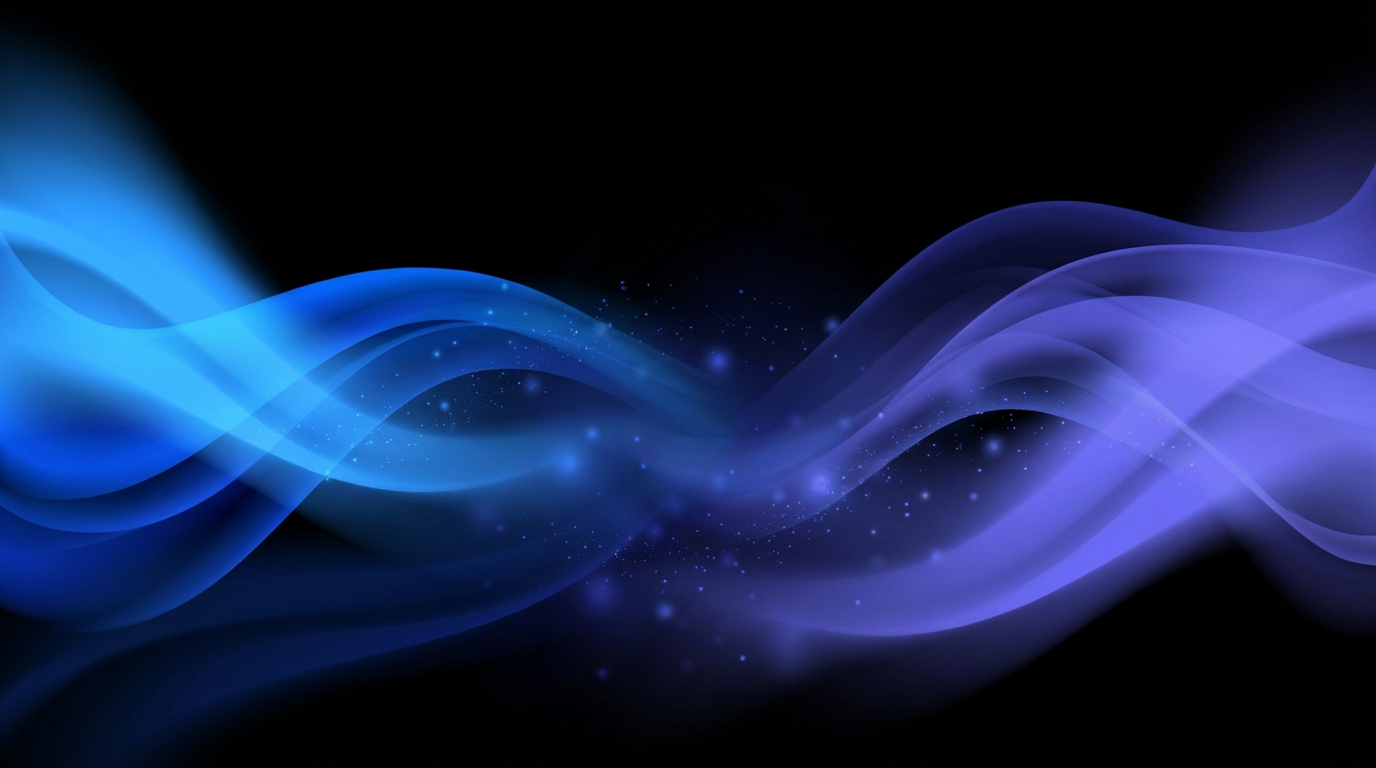
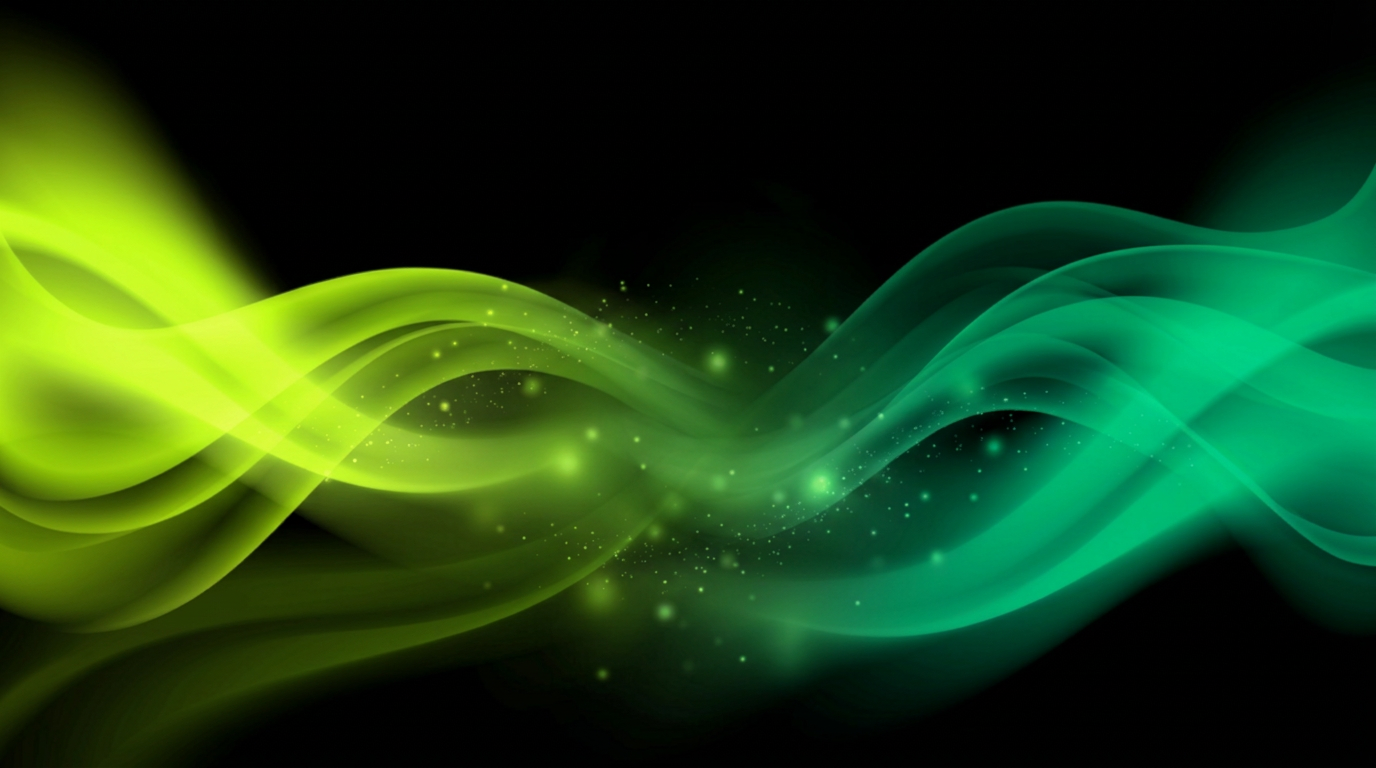
fix: improve loading screens and background consistency
- Add background image to Events page loading skeleton
- Improve Matches page loading screen with hero skeleton
- Update events background image for green theme consistency
- Add prefetch to PredictListPage navigation

diff --git a/src/app/matches/loading.tsx b/src/app/matches/loading.tsx
@@ -1,33 +1,63 @@
 /**
- * Minimal loading fallback that matches the MatchesPage container layout.
- * The actual component handles its own skeleton states (hero, stat cards, card list),
- * so this only provides the matching background to avoid a visual "jump" during
- * the SSR → client hydration transition.
+ * Minimal loading fallback that mirrors the MatchesPage hero area layout.
+ * Constrains the background image to the hero section height to avoid a
+ * full-screen flash → hero-only jump on hydration.
  */
 export default function Loading() {
   return (
-    <div
-      style={{
-        minHeight: "100vh",
-        position: "relative",
-      }}
-    >
-      <img
-        src="/matches-bg-wide.png"
-        alt=""
-        aria-hidden
+    <div style={{ minHeight: "100vh", position: "relative" }}>
+      {/* Hero placeholder — same structure as MatchesPage hero */}
+      <div
         style={{
-          position: "fixed",
-          inset: 0,
-          width: "100%",
-          height: "100%",
-          objectFit: "cover",
-          objectPosition: "center top",
-          zIndex: 0,
-          pointerEvents: "none",
-          opacity: 0.18,
+          position: "relative",
+          overflow: "hidden",
+          borderBottom: "1px solid rgba(39,39,42,0.5)",
         }}
-      />
+      >
+        <div
+          style={{
+            position: "absolute",
+            inset: 0,
+            pointerEvents: "none",
+            zIndex: 0,
+            overflow: "hidden",
+          }}
+        >
+          <img
+            src="/matches-bg-wide.png"
+            alt=""
+            aria-hidden
+            style={{
+              position: "absolute",
+              inset: 0,
+              width: "100%",
+              height: "100%",
+              objectFit: "cover",
+              objectPosition: "center center",
+              opacity: 0.3,
+              mixBlendMode: "lighten",
+              maskImage:
+                "linear-gradient(to bottom, black 50%, transparent 100%)",
+              WebkitMaskImage:
+                "linear-gradient(to bottom, black 50%, transparent 100%)",
+            }}
+          />
+          <div
+            style={{
+              position: "absolute",
+              inset: 0,
+              opacity: 0.025,
+              backgroundImage:
+                "radial-gradient(circle at 1px 1px, rgb(255 255 255) 1px, transparent 0)",
+              backgroundSize: "20px 20px",
+            }}
+          />
+        </div>
+        {/* Reserve the same height as the hero content area */}
+        <div style={{ position: "relative", zIndex: 1, padding: "52px 32px 44px", maxWidth: 1152, margin: "0 auto" }}>
+          <div style={{ height: 180 }} />
+        </div>
+      </div>
     </div>
   );
 }

diff --git a/src/app/loading.tsx b/src/app/loading.tsx
@@ -4,8 +4,43 @@ import { EventsPageSkeleton } from "@liberfi.io/ui-predict";
 
 export default function Loading() {
   return (
-    <div className="flex px-0 py-1 sm:px-2 sm:py-4 max-w-[1680px] mx-auto w-full h-full">
-      <EventsPageSkeleton />
+    <div className="relative min-h-screen w-full">
+      {/* Hero background — matches the actual EventsPage hero bg layer */}
+      <div
+        style={{
+          position: "absolute",
+          top: 0,
+          left: 0,
+          right: 0,
+          height: 280,
+          overflow: "hidden",
+          pointerEvents: "none",
+          zIndex: 0,
+        }}
+      >
+        <img
+          src="/matches-bg-wide.png"
+          alt=""
+          aria-hidden
+          style={{
+            position: "absolute",
+            inset: 0,
+            width: "100%",
+            height: "100%",
+            objectFit: "cover",
+            objectPosition: "center center",
+            opacity: 0.3,
+            mixBlendMode: "lighten",
+            maskImage:
+              "linear-gradient(to bottom, black 50%, transparent 100%)",
+            WebkitMaskImage:
+              "linear-gradient(to bottom, black 50%, transparent 100%)",
+          }}
+        />
+      </div>
+      <div className="relative z-[1]">
+        <EventsPageSkeleton />
+      </div>
     </div>
   );
 }

diff --git a/src/components/page/PredictListPage.tsx b/src/components/page/PredictListPage.tsx
@@ -30,6 +30,7 @@ export function PredictListPage() {
       LinkComponent={NoPrefetchLink}
       onHover={handleHover}
       onSelect={handleSelect}
+      bgImageSrc="/matches-bg-wide.png"
     />
   );
 }
